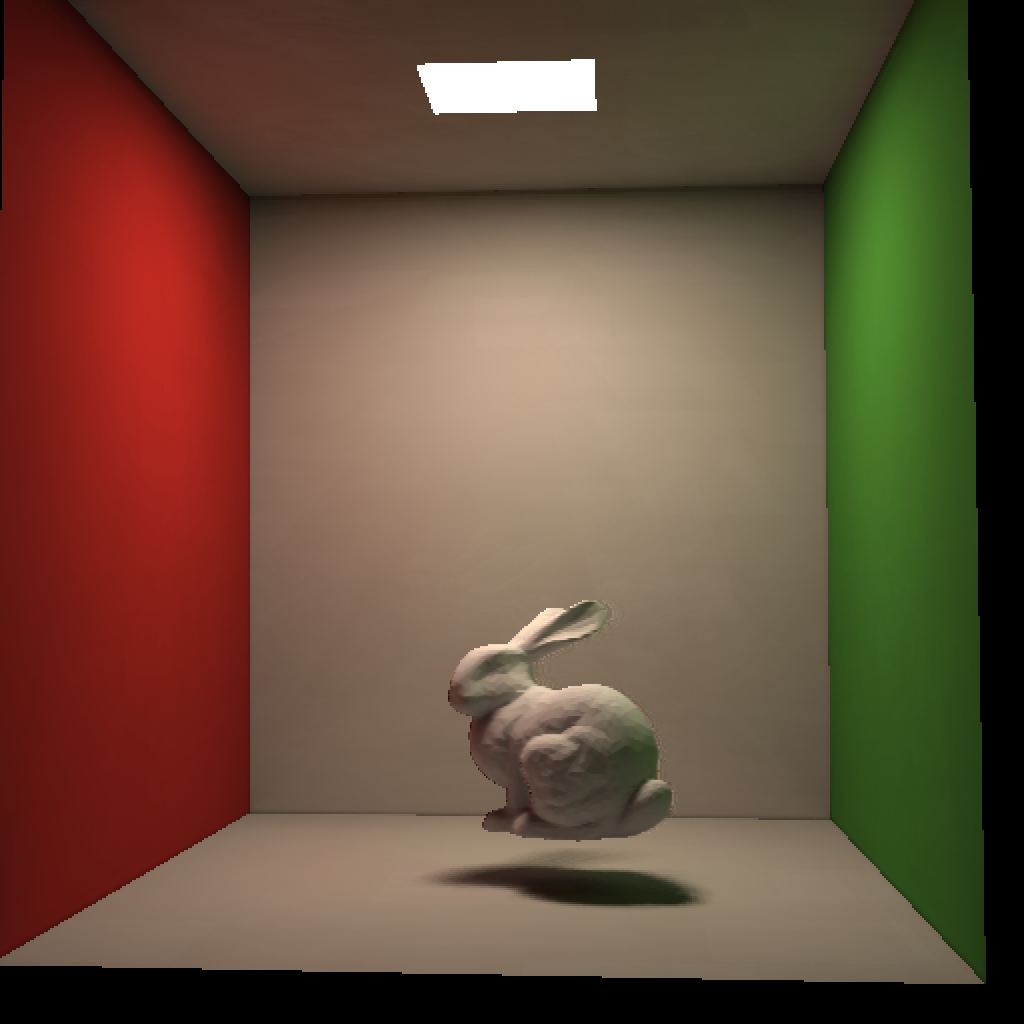
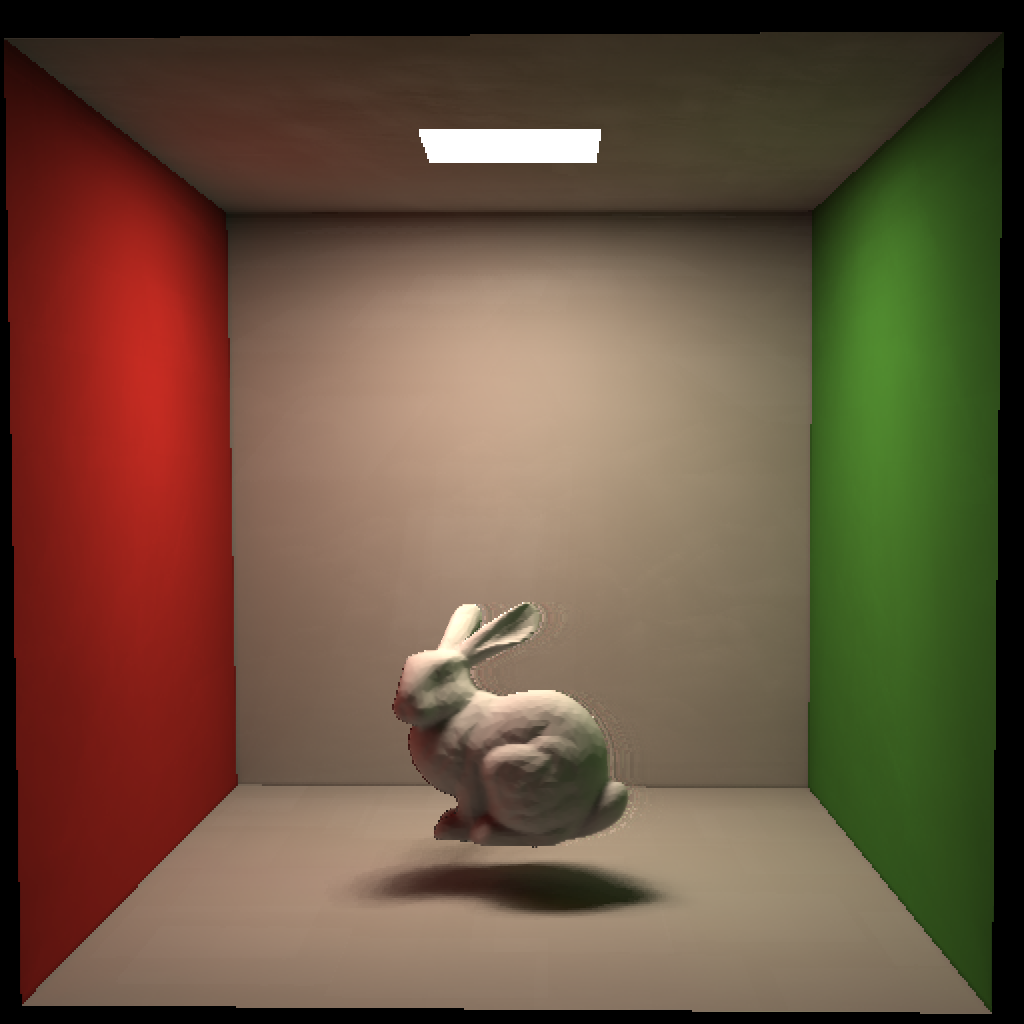
小错误

Changed region(s): [[0.0, 0.0, 1.0, 1.0], [0.875, 0.875, 0.9062, 0.9062], [0.8438, 0.8438, 0.875, 0.875]]

diff --git a/example/cornellbox_bunny.js b/example/cornellbox_bunny.js
@@ -59,8 +59,6 @@ context.configure({
 renderer.context = context;
 
 let boxMatrix = mat4.create();
-mat4.scale(boxMatrix, boxMatrix, [1, 1.093, 1]);
-
 let light = loadObjLightModelWithoutNormal(renderer, await (await fetch("../models/cornellbox/light.obj")).text());
 light.lightPower = 1;
 vec4.copy(light.modelInfo.light.buffer, [47, 38, 31, 1]);
